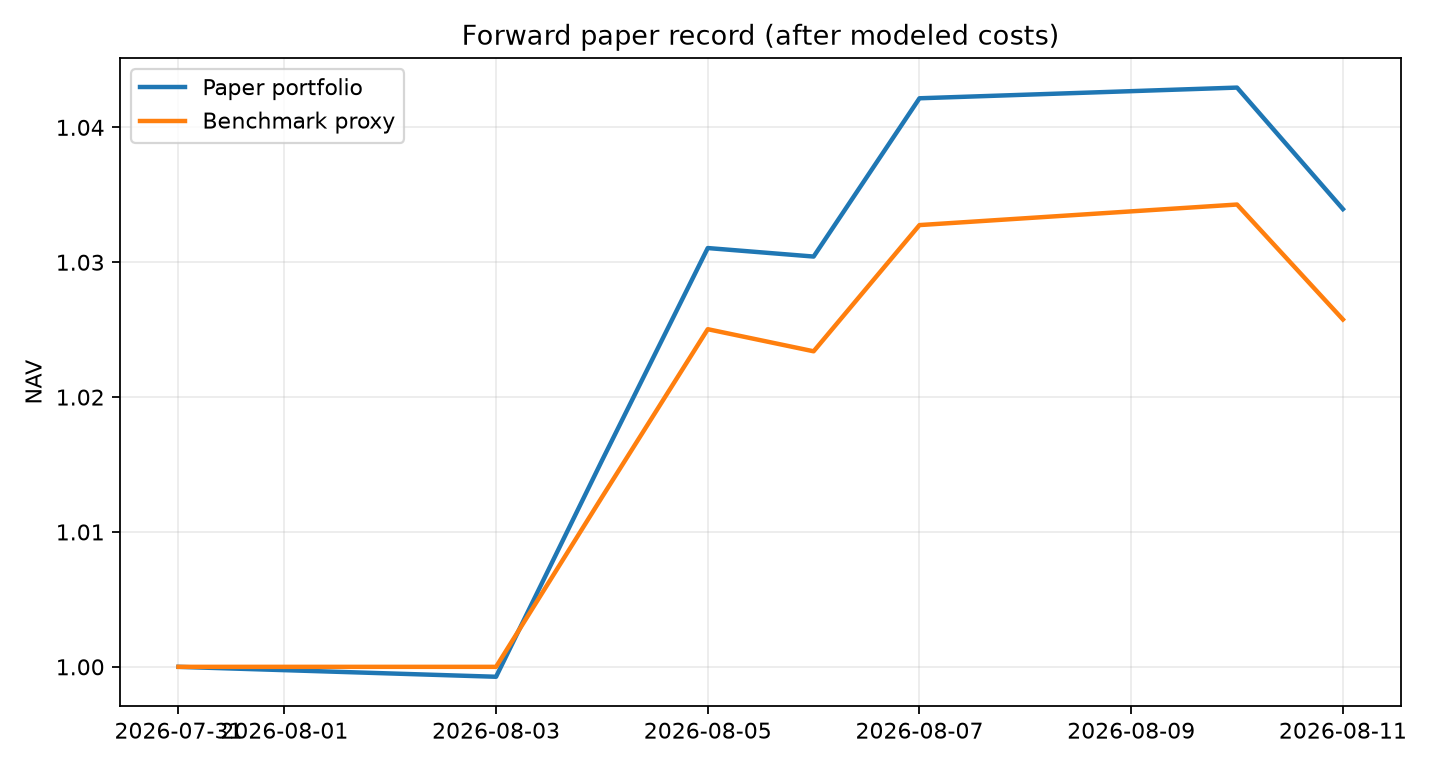
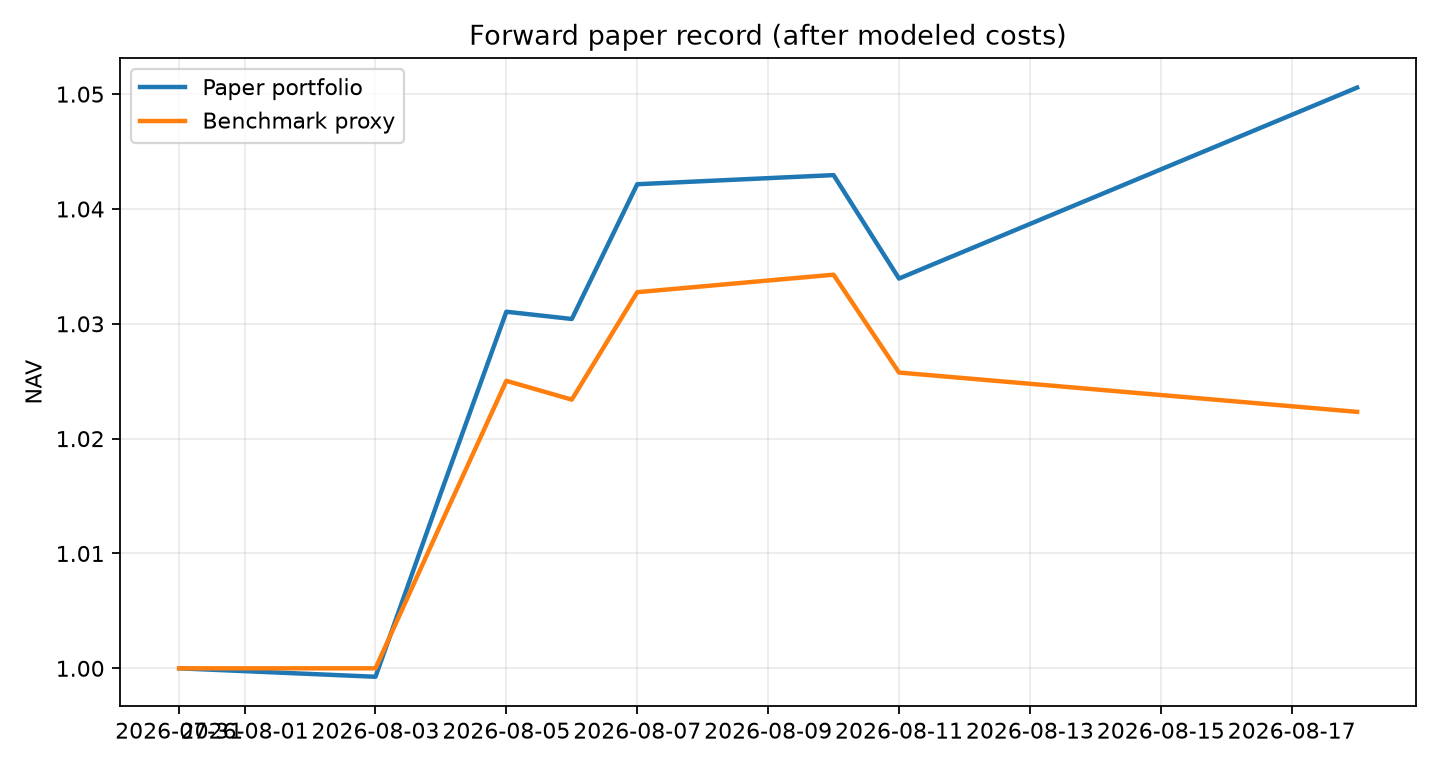
chore: update forward monitor 2026-08-18

diff --git a/docs/forward-monitoring.md b/docs/forward-monitoring.md
@@ -1,6 +1,6 @@
 # Forward paper-monitoring record
 
-Last updated: **2026-08-11** (Asia/Shanghai)
+Last updated: **2026-08-18** (Asia/Shanghai)
 
 This is an unaudited paper-trading research record. It is not a live fund,
 broker statement or investment advice. The empirical universe remains subject
@@ -10,17 +10,17 @@ to the fixed-current-constituent limitation described in `DATA_NOTICE.md`.
 
 | Metric | Value |
 |---|---:|
-| Market date | 2026-08-11 |
+| Market date | 2026-08-18 |
 | Health | GREEN_WARMUP |
-| Model version | fe9f1f11dd26 |
-| Model train end | 2026-08-07 |
+| Model version | 1a17899582cd |
+| Model train end | 2026-08-14 |
 | Data coverage | 100.0% |
-| Matured 5D Rank IC | 0.4717 |
-| Top-minus-bottom | 6.54% |
-| Paper active return | -0.04% |
-| 20D tracking error | 2.78% |
-| 20D information ratio | 9.14 |
-| Active drawdown | -0.11% |
+| Matured 5D Rank IC | 0.3044 |
+| Top-minus-bottom | 6.42% |
+| Paper active return | 1.94% |
+| 20D tracking error | 10.08% |
+| 20D information ratio | 7.63 |
+| Active drawdown | 0.00% |
 
 ## Recent observations
 
@@ -34,6 +34,7 @@ to the fixed-current-constituent limitation described in `DATA_NOTICE.md`.
 | 2026-08-07 | GREEN_WARMUP | 0.6589 | 0.22% | 0.00% |
 | 2026-08-10 | GREEN_WARMUP | 0.6121 | -0.07% | 1.14% |
 | 2026-08-11 | GREEN_WARMUP | 0.4717 | -0.04% | 0.00% |
+| 2026-08-18 | GREEN_WARMUP | 0.3044 | 1.94% | 0.00% |
 
 Ticker-level predictions, holdings and proposed orders are intentionally kept
 outside this public repository.
